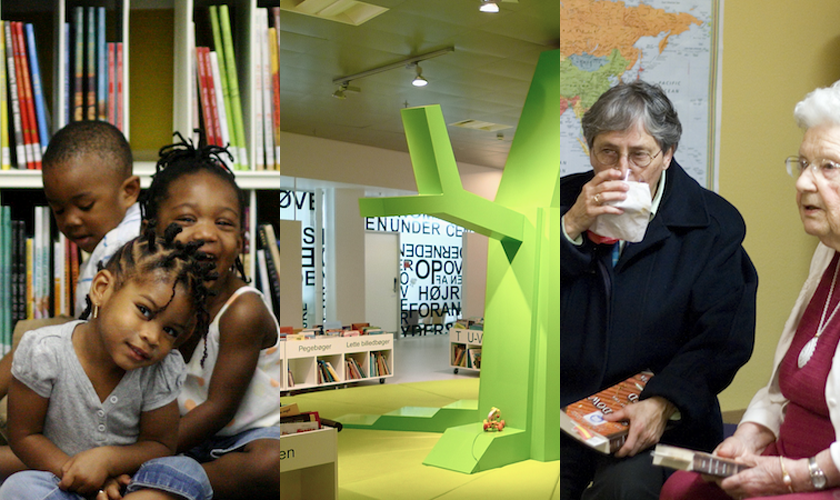
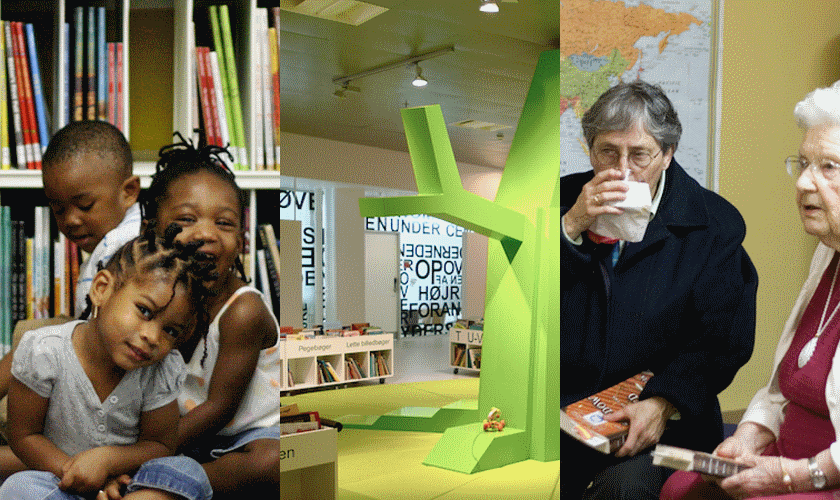
<img> post-load for articles Also, slightly-grainer but much smaller slider

diff --git a/index.html b/index.html
@@ -34,33 +34,33 @@
 		<h2>Books &amp; More</h2> 
 		<div class="content">
 			<h3>New Books</h3>
-			<a href="#"><img src="http://syndetics.com/index.php?isbn=9780062093639/SC.GIF"></a>
-			<a href="#"><img src="http://syndetics.com/index.php?isbn=9780312531188/SC.GIF"></a>
-			<a href="#"><img src="http://syndetics.com/index.php?isbn=9780312536220/SC.GIF"></a>
-			<a href="#"><img src="http://syndetics.com/index.php?isbn=9780312381790/SC.GIF"></a>
-			<a href="#"><img src="http://syndetics.com/index.php?isbn=9780312628093/SC.GIF"></a>
-			<a href="#"><img src="http://syndetics.com/index.php?isbn=9781608197729/SC.GIF"></a>
-			<a href="#"><img src="http://syndetics.com/index.php?isbn=9780374299019/SC.GIF"></a>
+			<a href="#"><span data-img-src="http://syndetics.com/index.php?isbn=9780062093639/SC.GIF"></span></a>
+			<a href="#"><span data-img-src="http://syndetics.com/index.php?isbn=9780312531188/SC.GIF"></span></a>
+			<a href="#"><span data-img-src="http://syndetics.com/index.php?isbn=9780312536220/SC.GIF"></span></a>
+			<a href="#"><span data-img-src="http://syndetics.com/index.php?isbn=9780312381790/SC.GIF"></span></a>
+			<a href="#"><span data-img-src="http://syndetics.com/index.php?isbn=9780312628093/SC.GIF"></span></a>
+			<a href="#"><span data-img-src="http://syndetics.com/index.php?isbn=9781608197729/SC.GIF"></span></a>
+			<a href="#"><span data-img-src="http://syndetics.com/index.php?isbn=9780374299019/SC.GIF"></span></a>
 			<h3>Book of the Day</h3> 
-			<p><a href="#"><img src="http://syndetics.com/index.php?isbn=9780312628093/SC.GIF">State of Wonder</a> by Anne Patchett — Dr. Marina Singh, a research scientist with a Minnesota pharmaceutical company, is sent to Brazil to track down her former mentor, Dr. Annick Swenson, who seems to have all but disappeared in the Amazon while working on what is destined to be an extremely valuable new drug.</p>
+			<p><a href="#"><span data-img-src="http://syndetics.com/index.php?isbn=9780312628093/SC.GIF"></span>State of Wonder</a> by Anne Patchett — Dr. Marina Singh, a research scientist with a Minnesota pharmaceutical company, is sent to Brazil to track down her former mentor, Dr. Annick Swenson, who seems to have all but disappeared in the Amazon while working on what is destined to be an extremely valuable new drug.</p>
 		</div>
 	</article>
 	<article>
 		<h2>Events</h2> 
 		<div class="content">
-			<a href="#"><img src="images/event1.png"></a>
-			<a href="#"><img src="images/event2.png"></a>
-			<a href="#"><img src="images/event3.png"></a>
+			<a href="#"><span data-img-src="images/event1.png"></span></a>
+			<a href="#"><span data-img-src="images/event2.png"></span></a>
+			<a href="#"><span data-img-src="images/event3.png"></span></a>
 		</div>
 	</article>
 	<article>
 		<h2>For Kids</h2> 
 		<div class="content">
 			<h3>Recommended Stuff</h3>
-			<a href="#"><img src="http://syndetics.com/index.php?isbn=9780062093639/SC.GIF"></a>
-			<a href="#"><img src="http://syndetics.com/index.php?isbn=9780312531188/SC.GIF"></a>
-			<a href="#"><img src="http://syndetics.com/index.php?isbn=9780312536220/SC.GIF"></a>
-			<a href="#"><img src="http://syndetics.com/index.php?isbn=9780312381790/SC.GIF"></a>
+			<a href="#"><span data-img-src="http://syndetics.com/index.php?isbn=9780062093639/SC.GIF"></span></a>
+			<a href="#"><span data-img-src="http://syndetics.com/index.php?isbn=9780312531188/SC.GIF"></span></a>
+			<a href="#"><span data-img-src="http://syndetics.com/index.php?isbn=9780312536220/SC.GIF"></span></a>
+			<a href="#"><span data-img-src="http://syndetics.com/index.php?isbn=9780312381790/SC.GIF"></span></a>
 			<h3>Events</h3>
 			<p><strong>Face painting</strong> — April 28th, 1:00pm<br />Kids love this. It's weird!</p>
 			<p><strong>Storytime for Infants</strong> — Every Wednesday, 10:00am<br />Ages 0-2</p>
@@ -72,10 +72,10 @@
 		<h2>For Teens</h2> 
 		<div class="content">
 			<h3>Recommended Stuff</h3>
-			<a href="#"><img src="http://syndetics.com/index.php?isbn=9780062093639/SC.GIF"></a>
-			<a href="#"><img src="http://syndetics.com/index.php?isbn=9780312531188/SC.GIF"></a>
-			<a href="#"><img src="http://syndetics.com/index.php?isbn=9780312536220/SC.GIF"></a>
-			<a href="#"><img src="http://syndetics.com/index.php?isbn=9780312381790/SC.GIF"></a>
+			<a href="#"><span data-img-src="http://syndetics.com/index.php?isbn=9780062093639/SC.GIF"></span></a>
+			<a href="#"><span data-img-src="http://syndetics.com/index.php?isbn=9780312531188/SC.GIF"></span></a>
+			<a href="#"><span data-img-src="http://syndetics.com/index.php?isbn=9780312536220/SC.GIF"></span></a>
+			<a href="#"><span data-img-src="http://syndetics.com/index.php?isbn=9780312381790/SC.GIF"></span></a>
 			<h3>Events</h3>
 			<p><strong>Movie &amp; Popcorn: The Hunger Games</strong> — April 13th, 7:30pm<br />You loved the book, now see the film!</p>
 			<p><strong>Teen Advisory Board Meeting</strong> — April 19th, 7:00pm<br />Interested in helping us plan teen services at the library? Email <a href="">heyteenager@nicevillelibrary.org</a> for more info.</p>

diff --git a/deps/behaviors.js b/deps/behaviors.js
@@ -17,7 +17,11 @@ jQuery(document).ready(function($){
 	$articles = $("article");
 		$articles.find(".content").addClass("hide");
 		$articles.on("click","h2",function(e){
-			$(this).siblings(".content").toggleClass("hide slide-down");
+			var imgspans = $(this).siblings(".content").toggleClass("hide slide-down").find("span[data-img-src]");
+			imgspans.each(function(){
+				var $this = $(this), imgSrc = $this.attr("data-img-src");
+				$this.replaceWith('<img src="' + imgSrc + '" alt="" />');
+				});
 			});
 
 	var $slider = $('.slider'), offset = 0;
